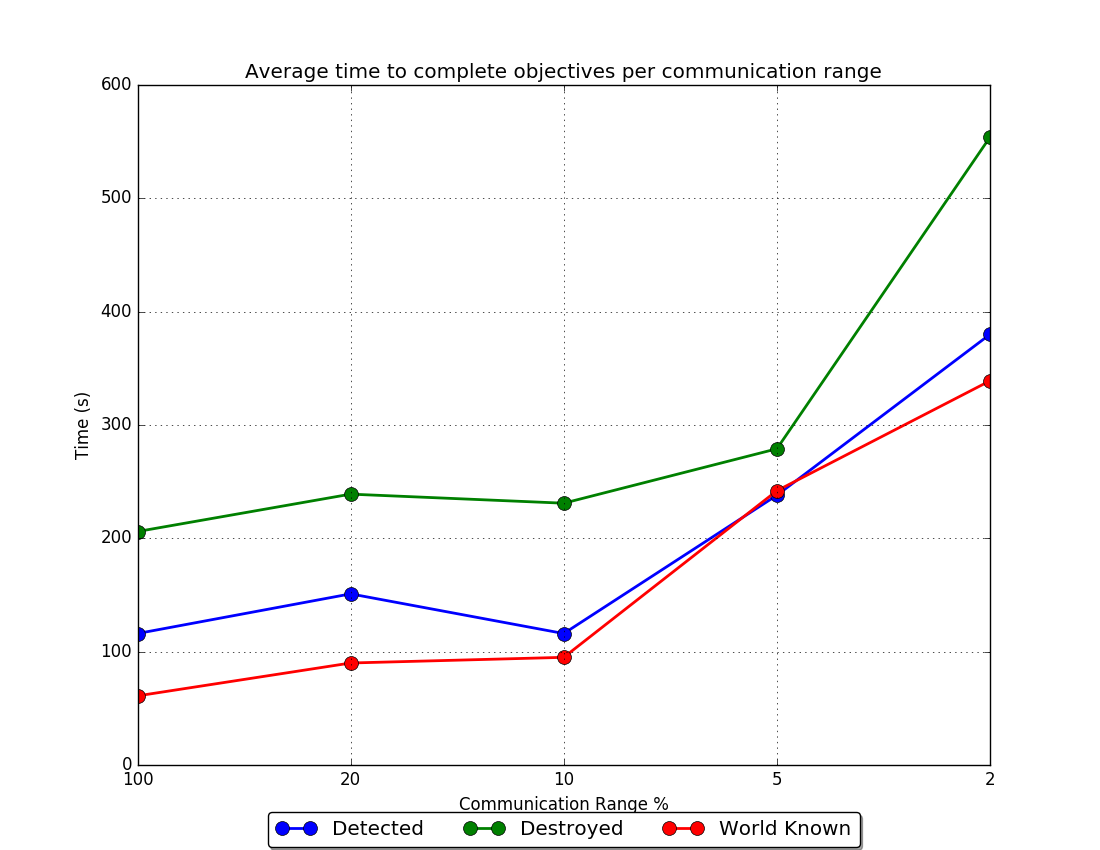
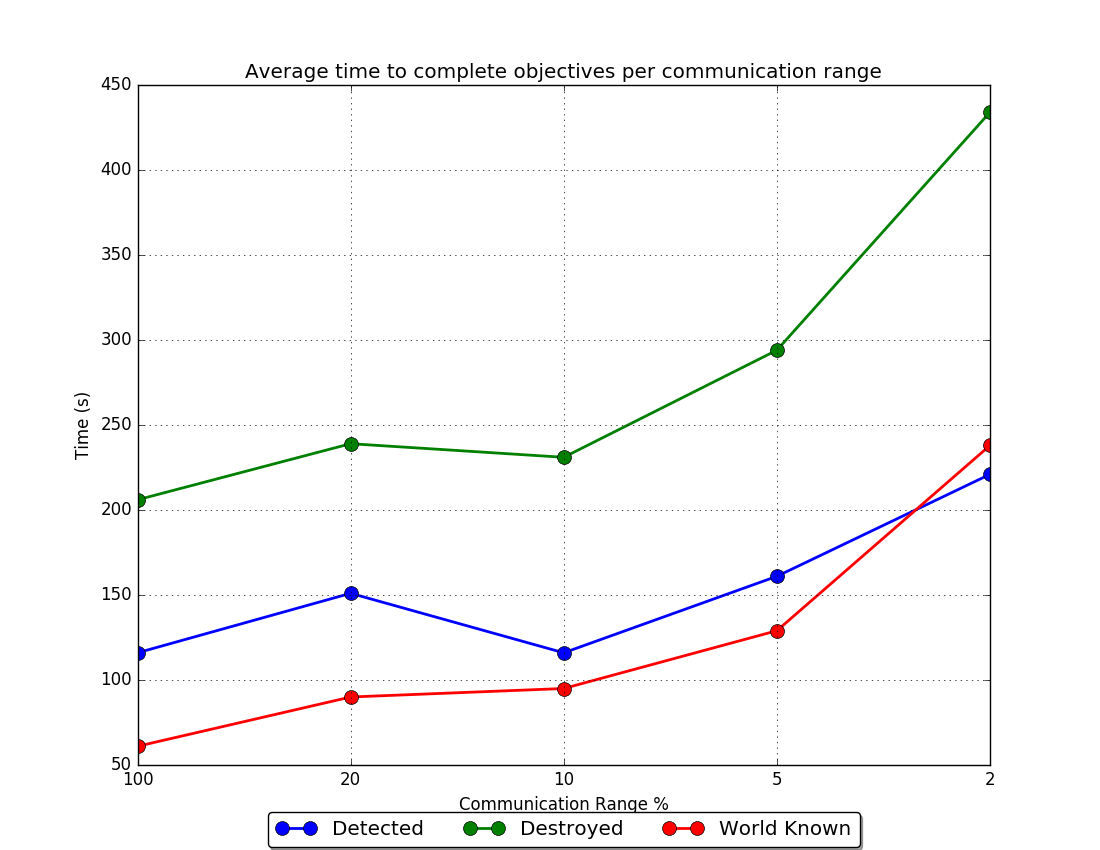
More cleanup of intro/abstract/conclusion/results to remove the one-way emphasis and highlight simplicity instead.  Fixed some data entry typos.

diff --git a/dissertation/text/results.tex b/dissertation/text/results.tex
@@ -2,7 +2,7 @@
 \label{chap:results}
 
 \section{Performance Metrics}
-The \textbf{TODO: INSERT MODEL NAME} model was implemented and simulated in a custom computer program.  The model's performance was measured in three ways; time to detect all targets, time to destroy all targets, and the time it took to ``know'' the whole world.  Using these metrics conclusions can be drawn about the model's capabilities.
+The \textbf{TODO: INSERT MODEL NAME} model was implemented and simulated in a custom computer program.  The model's performance was measured in three ways; time to detect all targets, time to destroy all targets, and the time it took to ``know'' the whole world.  Using these metrics conclusions can be drawn about the model's capabilities.  The metrics are defined as follows.
 
 \begin{description}
 	\item [Time to detect all targets] The amount of time from the start of the simulation until all targets in the simulation have been detected by any UAV at least once.  This is implemented by using target truth data and maintaining a corresponding status flag per target that is set once the target is detected.  Once all of the flags have been set then all targets have been detected at least once.  When this evet occurs the time is recorded.
@@ -14,7 +14,7 @@ The \textbf{TODO: INSERT MODEL NAME} model was implemented and simulated in a cu
 
 
 \section{Experiment Configuration}
-For this experiment 10 random worlds were generated each with 2 mobile targets, 4 static targets, and 5 UAVs.  The simulated worlds were configured as a 2.5 by 2.5$km$ area subdivided into 15 rows and columns.  A rendering of each generated world is included in section~\ref{sec:world_images}.
+For this experiment 10 random worlds were generated each with 2 mobile targets, 4 static targets, and 5 UAVs.  The simulated worlds were configured as a 2.5 by 2.5$Km$ area subdivided into 15 rows and columns.  A rendering of each generated world is included in section~\ref{sec:world_images}.
 
 The mobile targets moved at $10m/s$ and were best hit from $\pm115^{\circ}$ from their front.  Static targets were best hit from $\pm45^{\circ}$.
 
@@ -38,8 +38,8 @@ The simulation was ran for all 10 worlds with the same random seed.  This proces
 		100 & 116 & 206 & 61  \\ \hline
 		20  & 151 & 239 & 90  \\ \hline
 		10  & 116 & 231 & 95  \\ \hline
-		5   & 238 & 279 & 242 \\ \hline
-		2   & 380 & 554 & 339 \\ \hline
+		5   & 161 & 294 & 129 \\ \hline
+		2   & 221 & 434 & 238 \\ \hline
 	\end{tabular}
 \end{table}
 
@@ -60,7 +60,7 @@ The simulation was ran for all 10 worlds with the same random seed.  This proces
 	\end{tabular}
 \end{table}
 
-A more interesting view of the data is shown via Tukey style boxplots in figures~\ref{fig:detectBoxPlot}, \ref{fig:destroyedBoxPlot}, and \ref{fig:knownBoxPlot} comparing the time to detect all targets, the time to destroy all targets, and the time to confidently know the whole world respectively.  The first and third quartiles are bounded by the blue boxes.  The red lines are the median values across the 10 worlds and the red dots are the average.  The whiskers are set to the nearest datum still within 1.5 times the interquartile range (also called the midspread or middle 50\%).  The blue dots are outliers beyond the interquartile range.
+A more interesting view of the data is shown via Tukey style boxplots in figures~\ref{fig:detectBoxPlot}, \ref{fig:destroyedBoxPlot}, and \ref{fig:knownBoxPlot} comparing the time to detect all targets, the time to destroy all targets, and the time to confidently know the whole world respectively.  The first and third quartiles of the metric data recorded across all 10 words is bounded by the blue boxes in the figures.  The red lines are the median values and the red dots are the average.  The whiskers are set to the nearest datum still within 1.5 times the interquartile range (also called the midspread or middle 50\%).  The blue dots are outliers beyond the interquartile range.
 
 \end{multicols*}
 
@@ -94,9 +94,7 @@ A more interesting view of the data is shown via Tukey style boxplots in figures
 
 \begin{multicols*}{2}
 
-\textbf{TODO: REVISE HERE DOWN}
-
-The $100\%$ communication range case serves as a comparative baseline against a perfect global communication network.  In this case all UAVs are able to communicate with all other UAVs at all times.  As expected a perfect global and centralized communication network always performs better than a network with limited ranges.  The interesting point of comparison is that the $10\%$ and $20\%$ range cases come very close or match the $100\%$ case in performance.  This can be seen in figure~\ref{fig:averages} and in the ratios listed in table~\ref{tab:avgResultsRatio}.
+The $100\%$ communication range case serves as a comparative baseline against a perfect global communication network.  In this case all UAVs are able to communicate with all other UAVs at all times.  As expected a perfect global and centralized communication network performs better than networks with limited ranges.  The interesting point of comparison is that the $10\%$ and $20\%$ range cases come very close or match the $100\%$ case in all performance metrics.  Table~\ref{tab:avgResultsRatio} shows the ratios of performance between the test cases.  The $10\%$ and $20\%$ range cases at worst take $156\%$ of the time required by perfect global network.
 
 \begin{table}[H]
 	\caption{Ratio of time to complete objectives compared to 100\% range}
@@ -107,17 +105,46 @@ The $100\%$ communication range case serves as a comparative baseline against a 
 		\hline
 		Comm. Range \% & Average time all detected ratio & Average time all destroyed ratio & Average time world known ratio\\
 		\hline
-		100 & 1.0   & 1.0   & 1.0  \\ \hline
-		20  & 1.302 & 1.160 & 1.475  \\ \hline
-		10  & 1.0   & 1.121 & 1.557  \\ \hline
-		5   & 2.052 & 1.354 & 3.967 \\ \hline
-		2   & 3.276 & 2.690 & 5.557 \\ \hline
+		100 & 1.0   & 1.0   & 1.0   \\ \hline
+		20  & 1.299 & 1.163 & 1.481 \\ \hline
+		10  & 1.0   & 1.122 & 1.547 \\ \hline
+		5   & 1.393 & 1.43  & 2.112 \\ \hline
+		2   & 1.902 & 2.11  & 3.895 \\ \hline
 	\end{tabular}
 \end{table} 
             
-The similar performances can be attributed to the number of UAVs in the swarm.  This simulation used 5 UAVs.  If each of the 5 UAVs can cover $20\%$ of the world then in affect we've created a global network that is only separated by up a few relay hops.  Similarly the $10\%$ case covers half the world most of the time with 5 UAVs.  Conversely, the $5\%$ and $2\%$ cases can only cover a small fraction of the world at best and therefore their performance is much worse than the baseline $100\%$ case.
-            
-            
+The similar performances can be attributed to the density of UAVs in the swarm.  This simulation used 5 UAVs in a 2.5 by 2.5$Km$ world.  Assuming the UAVs are equally spaced across the world to maximize communication coverage then table~\ref{tab:worldCommsRngCoverage} shows how much of the world is covered in each test case.  The \textit{Physical Comm. Range} is the maximum distance across the world ($3.54Km = \sqrt{(2.5Km^{2}+2.5Km^{2})}$) times the \textit{Communication Range \%}.  The \textit{Maximum Possible Coverage} is the sum of the circular coverage areas of the 5 UAVs.  The \textit{Percent of World Area} is the the \textit{Maximum Possible Coverage} divided by the total area of the mission world converted to a percentage.  Since the UAVs are equally spaced for best possible communications coverage in these calculations the \textit{Percent of World Area} is a theoretical upper limit and will never be achieved in any practical means.
+
+\begin{table}[H]
+	\caption{World communication coverage percentage}
+	\centering
+	\rowcolors{1}{lightgray}{white}
+	\label{tab:worldCommsRngCoverage}
+	\begin{tabular}{|p{1.25cm}|p{1.5cm}|p{1.75cm}|p{1.5cm}|}
+		\hline
+		Comm. Range \% & Physical Comm. Range ($Km$) &  Maximum Possible Coverage ($Km^{2}$) & Percent of World Area (\%)\\
+		\hline
+		100 & 3.54 & 196.35 & 3141.59 \\ \hline
+		20  & 0.71 & 7.85   & 125.66  \\ \hline
+		10  & 0.35 & 1.96   & 31.42   \\ \hline
+		5   & 0.18 & 0.49   & 7.85    \\ \hline
+		2   & 0.07 & 0.08   & 1.26    \\ \hline
+	\end{tabular}
+\end{table} 
+
+Assuming theoretical best positioning the $20\%$ and $10\%$ cases can cover 125\% and 31\% of the world simultaneously respectively. Since the UAVs are constantly moving these coverage values are never reached.  However, their actual coverage values are sufficiently high that they randomly come in contact with each other to enable the sharing of information.  This lets the $20\%$ and $10\%$ cases have achieve similar performance metrics to the $100\%$ range baseline.  Conversely even the theoretical best communication coverage of the world for the $5\%$ and $2\%$ is a very low percentage and makes it difficult for those test cases to share belief data.
+
+Looking at the boxplots we can see that 
+
+less physical searching, thus less travel time, less mission time if comms large enoguh
+
+
+
+
+
+
+
+
 
 The $20\%$ and $10\%$ cases are not as heavily pressured as the shorter range cases to react to targets immediately.  These longer range cases can afford to wait for the most appropriate UAV to become available for the monitor and strike tasks so their average time to Destroy is roughly double that of their time to Detect everything.  The UAVs do not have to focus as much time on search and exploration tasking to maintain world certainty and keep Shannon entropy to a minimum.
 

diff --git a/dissertation/text/intro.tex b/dissertation/text/intro.tex
@@ -1,13 +1,13 @@
 \chapter{Introduction}
 A common task for teams of agents is to ``search and act.''  The team members must search an area for a target object and then perform an action once the objective is found.  This commonly referred to as ``search and rescue,'' ``search and destroy,'' or ``find and report.''  These types of missions are commonly carried out by military forces, first responders, and commercial entities such as in precision agriculture.  These organizations have unmanned air vehicles (UAVs) that are typically self contained systems between the vehicle and ground control station.  Team coordination amongst the members of the fleet is accomplished by out-of-band communications requiring operators to manually copy data between systems or by agreeing to a common messaging protocol requiring all UAV systems to be developed and deployed in lock-step fashion.  
 
-Coordinating the efforts of a team of aircraft in a small airspace is difficult and dangerous.  Add in limited or disrupted communications such as in the case of military and first responder applications and the amount of risk involved dramatically increases.  This mission management work requires many people to operate together and all the supporting equipment that goes with it. Swarming control algorithms can help automate this coordination process.  Automation will allow much faster and much more accurate modeling of the region compared to a group of people manually moving data.  Swarming logic can serve as air traffic controllers, pilots, and mission controllers simultaneously.  This means aircraft can fly closer together and strategically allocate themselves to tasks without interfering with one another.  More aircraft and more strategic tasking allocation means missions can be completed faster.
+Coordinating the efforts of a team of aircraft in a small airspace is difficult and dangerous.  Add in limited or disrupted communications such as in the case of military and first responder applications and the amount of risk involved dramatically increases.  This mission management work requires many people to operate together and all the supporting equipment that goes with it. Swarming control algorithms can help automate this coordination process.  Automation will allow much faster and much more accurate modeling of the region compared to a group of people manually moving data.  Swarming logic can serve as air traffic controllers, pilots, and mission controllers simultaneously.  This means aircraft can fly closer together and strategically allocate themselves to tasks without interfering with one another.  More aircraft in the mission airspace and more strategic tasking allocation means missions can be completed faster.
 
 Unfortunately the unmanned vehicle industry is still maturing.  Most unmanned systems are closed environments that do not integrate with others.  Even sharing data amongst the same type of systems is uncommon.  Newer unmanned systems are trying to integrate swarming capabilities as a core component of the system but these activities are largely in the research phase still.  At the moment there are many already deployed UAVs that perform duties that could benefit from cooperative swarming behavior.  Therefore there is a need for swarming control logic that is lightweight and non-invasive that can be augmented onto existing UAV systems.
 
-To minimize the changes necessary to retrofit preexisting legacy type UAVs with swarming capabilities this work proposes a decentralized swarm control algorithm that only requires one-way communication between its members.  Restricting communications to one-way only greatly simplifies the process of retrofitting preexisting UAVs with the capability to form a cooperative swarm. This prevents the need for complex software changes on the UAVs to handle multi-step negotiations and other communications amongst members of the swarm as commonly required in swarming algorithms.  Ideally the new swarming logic can be augmented to the preexisting command input system on the UAV minimizing any changes to the internal UAV logic.  This helps to prevent and minimize risky rework of the flight control logic and helps to reduce issues triggering flight safety qualification reviews.
+To minimize the changes necessary to retrofit preexisting legacy type UAVs with swarming capabilities this work proposes a new type of decentralized swarm control algorithm with an emphasis on minimizing control logic and communication requirements.  The algorithm does not require specialized swarm members with extra capabilities to aid swarm management, it does not require multi-step negotiations between individuals, and it does not require members of the swarm to maintain communication network paths between platforms.  The lack of these common swarming requirements means the aircraft only need one-way communication between each other and allows for the use of cheap, lightweight, and low power CPUs.  Ideally the new swarming logic can be augmented to the preexisting command input system on the UAV minimizing any changes to the internal UAV logic and hardware.  This helps to prevent and eliminate risky rework of the flight control logic and helps to reduce issues triggering flight safety qualification reviews.
 
-This paper proposes a new decentralized swarm control algorithm that requires only one-way communication by mimicking the behavior of territorial animals.  A simulated fleet of heterogeneous UAVs is created composed of reconnaissance and attack vehicles.  The fleet is instructed to complete a search-and-destroy mission in an unknown environment with an unknown number of static and mobile targets.  The algorithm is stressed by running multiple simulations with varying communication ranges.  The communication range of the vehicles restricts how well the swarm can communicate and therefore how well they can coordinate.  The simulations show that even with severely limited communication ranges and low density of UAVs that the new swarming algorithm can still complete the missions in reasonable amounts of time compared to a fleet with a global communication range.
+This paper proposes a new minimalistic decentralized swarm control algorithm by mimicking the behavior of territorial animals.  A simulated fleet of heterogeneous UAVs is created composed of reconnaissance and attack vehicles.  The fleet is instructed to complete a search-and-destroy mission in an unknown environment with an unknown number of static and mobile targets.  The algorithm is stressed by running multiple simulations with varying communication ranges.  The communication range of the vehicles restricts how well the swarm can communicate and therefore how well they can coordinate.  The simulations show that even with severely limited communication ranges and low density of UAVs that the new swarming algorithm can still complete the missions in reasonable amounts of time compared to a fleet with a global communication range.
 
 Chapter~\ref{chap:relWork} discusses previous work in cooperative swarms that influenced this experiment.  Chapter~\ref{chap:worldScenModel} explains the model used to simulate the virtual world and fleet.  Chapter~\ref{chap:myModel} constructs the new territorial swarming model and justifies the reasoning behind the idea.  Chapter~\ref{chap:results} analyzes the results of the algorithm as simulated through the virtual worlds.  Chapter~\ref{chap:conclusion} provides some conclusions about the work and ideas for future investigations.
 

diff --git a/dissertation/text/conclusion.tex b/dissertation/text/conclusion.tex
@@ -1,11 +1,9 @@
 \chapter{Conclusions}
 \label{chap:conclusion}
 
-\textbf{TODO: REVISE HERE DOWN}
+In this paper a minimalistic model was presented for a heterogeneous swarm of UAVs to cooperate by broadcasting their internal belief of the world and acting like territorial animals.  The UAVs were only allowed to broadcast singular messages with no back-and-forth exchanges or direct UAV to UAV exchanges.  The model was then stressed to see how it performs in a seek-and-destroy style mission with varying communication ranges.  It was found that even with very limited communication ranges and low densities of UAVs that the swarm was able to complete the mission in reasonable times compared to the baseline case of unlimited global communication range.
 
-In this paper a model was presented for a heterogeneous swarm of UAVs to cooperate using only one-way communication by broadcasting their internal belief of the world and acting like territorial animals.  The UAVs were only allowed to broadcast singular messages with no back-and-forth exchanges or direct UAV to UAV exchanges.  The model was then stressed to see how it performs in a seek-and-destroy style mission with varying communication ranges.  It was found that even with very limited communication ranges and low densities of UAVs that the swarm was able to complete the mission in reasonable times compared to the baseline case of unlimited global communication range.
-
-The real world application of the model can help to retrofit swarming capabilities onto fleets of preexisting UAVs that otherwise do not cooperate now.  Since the model only requires one-way communication it can be integrated into UAV software as an augmentation to the preexisting command input process instead of as an invasive modification to the core UAV software. This self-imposed constraint reduces the cost and design complexity of adding swarming behavior to legacy UAV systems compared to other swarming algorithms that require N-way multi-step conversations.
+The real world application of the model allows retrofitting swarming capabilities onto fleets of preexisting UAVs that otherwise do not cooperate now.  Cheap, light weight, and low power processors can be used to implement this model due to the small data and computing requirements.  This reduces impacts on the flight characteristics and performance of the aircraft.  These processors can serve as an optional augmentation to the existing command input system on the legacy aircraft instead of as an invasive modification to the core UAV software.
 
 As shown by simulation the territorial swarming model is functional but there is always room for improvement.  In this scenario all aircraft had an equal communication range.  An interesting excursion would be to model varying communication ranges amongst individuals in the swarm.  Similarly, the addition of non-RF based communication payloads whose sole purpose is to relay communications from one part of the swarm to another would add an interesting dynamic.
 
@@ -13,8 +11,9 @@ There is room for enhancement in the rules for swarm cooperation.  Currently the
 
 The weighted average used for merging belief data in section~\ref{sec:uavBelief} is brought about by a limitation of the representation of world uncertainty.  Future work could find new ways of measuring uncertainty or weighing in the expertise of a sensor in the belief model so that a more automated merging algorithm can be used.  As is, the operator must provide a configuration value to weight the merging of data which adds to the burden of using this model.
 
-\textbf{TODO: REVISE HERE UP}
- 
+The application of the model and analysis of the results provides a rough procedural outline for exploring the trade space between many factors in swarm design.  Future work could vary the number of targets, the number of UAVs, the ratio of strike to ISR platforms, and the types of payloads.
+
+
 %The application of the model and analysis of the results provides a procedure for exploring the trade space between communication ranges and mission effectiveness.  Given basic performance data about the aircraft and payloads we can simulate and analyze mission effectiveness.  For the fleet of aircraft modeled in this experiment we found that a communication range that could only reach across $10\%$ of the mission area provided near identical performance to a perfect global communication network.  Even smaller ranges could still provide useful mission effectiveness.  This provides a welcome option for aircraft designers to reduce their hardware requirements and for mission planners to optimize platform survivability and sensor evasion.
 
 %As is the model can provide useful insights but there is always room for improvement.  In this scenario all aircraft had an equal communication range.  An interesting excursion would be to model varying communication ranges amongst individuals in the swarm.  Similarly, the addition of non-RF based communication payloads whose sole purpose is to relay communications from one part of the swarm to another would add an interesting dynamic.

diff --git a/dissertation/text/frontMatter.tex b/dissertation/text/frontMatter.tex
@@ -2,7 +2,7 @@
 \begin{abstract}
 The goal of this research was to develop a decentralized algorithm for controlling multiple heterogeneous Unmanned Air Vehicles (UAVs) in ``search and act'' scenarios that were not originally designed to cooperate as a team.  Existing UAVs already have logic that controls their flight behaviors, how they accomplish goals, how they detect tasks to perform, and how they encode their data.  Attempting to modify this existing logic to cooperate with other unknown and different aircraft types is a burdensome undertaking.  UAVs used in safety critical applications undergo severe scrutiny during development and before they are allowed to perform their missions.  So any changes to these types of vehicles is even more difficult yet these are the types of vehicles that would benefit the most from cooperative swarm capabilities.
 
-To minimize the changes necessary to retrofit preexisting legacy type UAVs with swarming capabilities this work proposes a decentralized swarm control algorithm that only requires one-way communication between its members.  This is an unusual choice since one of the primary benefits of swarms is their ability to actively cooperate, share information, and negotiate decisions which is usually performed by N-way conversations.  Restricting communications to one-way only greatly simplifies the process of retrofitting preexisting UAVs with the capability to form a cooperative swarm.  Ideally very few modifications are required to preexisting UAV control logic and the new swarming logic can be an augmentation to the preexisting command inputs and logic outputs of the UAV.  The work in this paper seeks to maintain the benefits of swarming while reducing the required infrastructure.
+To minimize the changes necessary to retrofit preexisting legacy type UAVs with swarming capabilities this work proposes a decentralized swarm control algorithm that only requires one-way communication between its members.  This is an unusual choice since one of the primary benefits of swarms is their ability to actively cooperate, share information, and negotiate decisions which is usually performed by N-way conversations.  Restricting communications to one-way only greatly simplifies the process of retrofitting preexisting UAVs with the capability to form a cooperative swarm and avoids many common problems found in mobile ad hoc networks.  Ideally very few modifications are required to preexisting UAV control logic and the new swarming logic can be an augmentation to the preexisting command inputs and logic outputs of the UAV.  The work in this paper seeks to maintain the benefits of swarming while reducing the required infrastructure.
 
 A new decentralized swarm control algorithm that mimics the behavior of territorial animals is created and simulated with a virtual fleet of reconnaissance and attack UAVs.  The fleet is instructed to complete a search-and-destroy mission in an unknown environment with an unknown number of static and mobile targets.  The experiment varies the communication range of the swarm members and shows that even with severely limited communication ranges one-way communications still allow for successful mission completion with swarming.
 \end{abstract}

diff --git a/dissertation/text/myModel.tex b/dissertation/text/myModel.tex
@@ -1,4 +1,4 @@
-\chapter{Territorial swarming with one-way communication}
+\chapter{Territorial swarming}
 \label{chap:myModel}
 When the simulation starts the UAVs begin searching the world for targets.  While scanning the world they update their internal belief model.  This internal model is shared with other members of the swarm when they are within communication's range of each other.  This model contains data regarding each UAV's confidence that a geographic region is clear and a list of known targets.  Section~\ref{sec:uavBelief} describes this model in detail.
 

diff --git a/python_scripts/ObjectivesData.py b/python_scripts/ObjectivesData.py
@@ -60,6 +60,6 @@ comm2.plotColor = 'magenta'
 comm2.plotLabel = 'Rng 2%'
 
 #comm_ranges = np.array([100,20,10,5,2])
-average_detected = np.array([116, 151, 116, 238, 380])
-average_destroyed = np.array([206, 239, 231, 279, 554])
-average_known = np.array([61, 90, 95, 242, 339])
+average_detected = np.array([116, 151, 116, 161, 221])
+average_destroyed = np.array([206, 239, 231, 294, 434])
+average_known = np.array([61, 90, 95, 129, 238])
